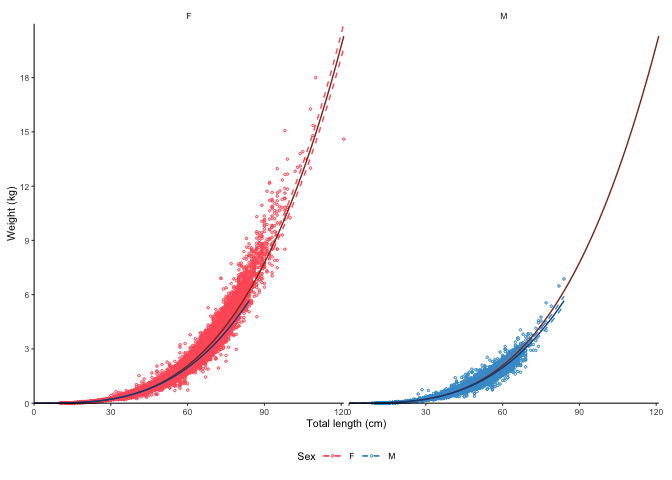
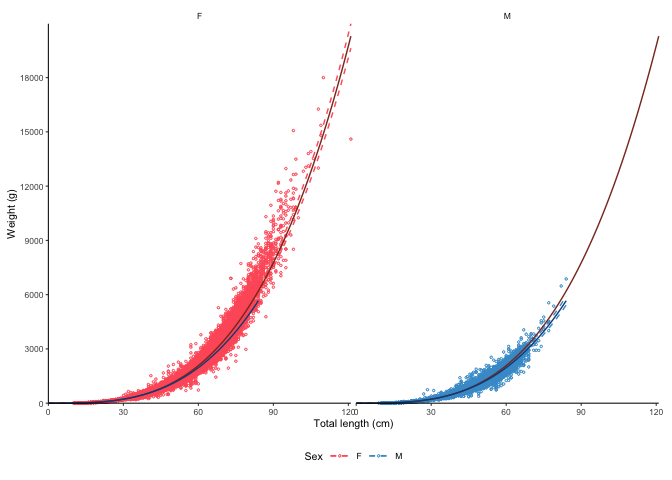
Add unit conversion and checks to plot_lw

diff --git a/README.md b/README.md
@@ -2,7 +2,7 @@
 # ggFishPlots
 
 **Visualise and calculate life history parameters for fisheries science
-using ggplot2. R package version 0.1.7**
+using ggplot2. R package version 0.1.10**
 
 <!-- badges: start -->
 
@@ -97,12 +97,10 @@ plot_growth(survey_ghl, split.by.sex = TRUE)$plot
 
 ![](man/figures/README-unnamed-chunk-4-1.png)<!-- -->
 
-The dashed lines are
-![S\_{inf}](https://latex.codecogs.com/png.image?%5Cdpi%7B110%7D&space;%5Cbg_white&space;S_%7Binf%7D "S_{inf}").
-Data behind the growth curves are shown as box plots by default. It is
-possible to plot the data as points by defining `boxplot = FALSE`. We
-can also force zero group into the curves if know the length of it.
-Assumed as 10 cm here:
+The dashed lines are $S_{inf}$. Data behind the growth curves are shown
+as box plots by default. It is possible to plot the data as points by
+defining `boxplot = FALSE`. We can also force zero group into the curves
+if know the length of it. Assumed as 10 cm here:
 
 ``` r
 plot_growth(survey_ghl, force.zero.group.length = 10, boxplot = FALSE)$plot
@@ -155,7 +153,7 @@ plot_maturity(survey_ghl, length = "age", length.unit = "years",
 
 ### Length-weight relationships
 
-Simple plot using log-transformation and linear models by default:
+Simple plot using log-transformation and linear models by default.
 
 ``` r
 plot_lw(survey_ghl, length = "length", weight = "weight")
@@ -196,13 +194,30 @@ plot_lw(survey_ghl, use.nls = TRUE)
     #> 1 a     0.00000173 0.0000000156      110.       0 0.00000170 0.00000176
     #> 2 b     3.42       0.00215          1590.       0 3.42       3.42
 
-Split by sex:
+Split by sex. Note that the length and weight units influence the a and
+b estimates. FishBase uses centimeters and grams. The function can
+correct for the units when asked (but `length.unit` and `weight.unit`
+parameters have to be defined correctly)
 
 ``` r
-plot_lw(survey_ghl, split.by.sex = TRUE)$plot
+plot_lw(survey_ghl, split.by.sex = TRUE, correct.units = TRUE)
+#> $plot
 ```
 
 ![](man/figures/README-unnamed-chunk-11-1.png)<!-- -->
+
+    #> 
+    #> $text
+    #> [1] "Logarithm transformed linear length-weight model for females and males, respectively:  \n a = 0.0035 +/- 0.003 - 0.004 (95% CIs) and 0.0051 +/- 0.005 - 0.005 (95% CIs).  \n b = 3.247 +/- 3.24 - 3.25 (95% CIs) and 3.143 +/- 3.14 - 3.15 (95% CIs).  \n Number of included specimens = 34889 and 30354  \n Total number of measured = 618779  \n Excluded (data missing): \n Length = 0; weight = 456891; sex = 96645"
+    #> 
+    #> $params
+    #> # A tibble: 4 × 8
+    #>   sex   term  estimate std.error statistic p.value conf.low conf.high
+    #>   <chr> <chr>    <dbl>     <dbl>     <dbl>   <dbl>    <dbl>     <dbl>
+    #> 1 F     a      0.00350   0.00765     -739.       0  0.00344   0.00355
+    #> 2 F     b      3.25      0.00195     1666.       0  3.24      3.25   
+    #> 3 M     a      0.00507   0.0101      -525.       0  0.00497   0.00517
+    #> 4 M     b      3.14      0.00265     1188.       0  3.14      3.15
 
 Log-log axes to see differences:
 
@@ -243,9 +258,9 @@ citation("ggFishPlots")
 #> 
 #> To cite package 'ggFishPlots' in publications use:
 #> 
-#>   Mikko Vihtakari (2022). ggFishPlots: Visualise and calculate life
-#>   history parameters for fisheries science using 'ggplot2'. R package
-#>   version 0.1.7. https://github.com/DeepWaterIMR/ggFishPlots
+#>   Vihtakari M (2022). _ggFishPlots: Visualise and calculate life
+#>   history parameters for fisheries science using 'ggplot2'_. R package
+#>   version 0.1.10, <https://github.com/DeepWaterIMR/ggFishPlots>.
 #> 
 #> A BibTeX entry for LaTeX users is
 #> 
@@ -253,7 +268,7 @@ citation("ggFishPlots")
 #>     title = {ggFishPlots: Visualise and calculate life history parameters for fisheries science using 'ggplot2'},
 #>     author = {Mikko Vihtakari},
 #>     year = {2022},
-#>     note = {R package version 0.1.7},
+#>     note = {R package version 0.1.10},
 #>     url = {https://github.com/DeepWaterIMR/ggFishPlots},
 #>   }
 ```
